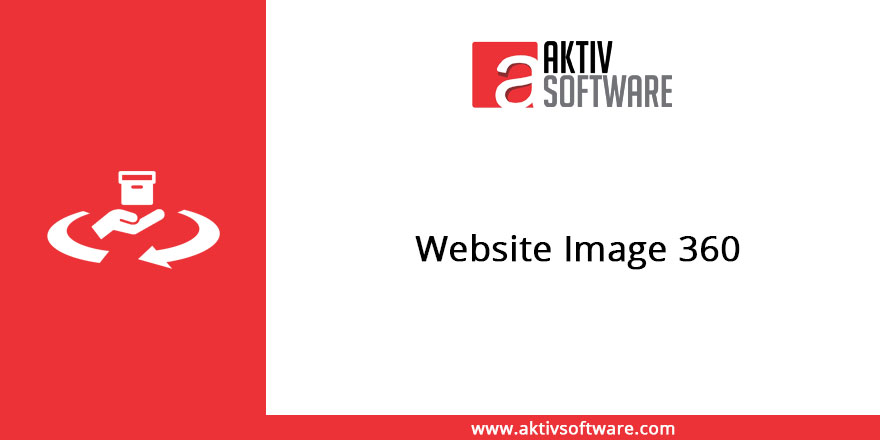
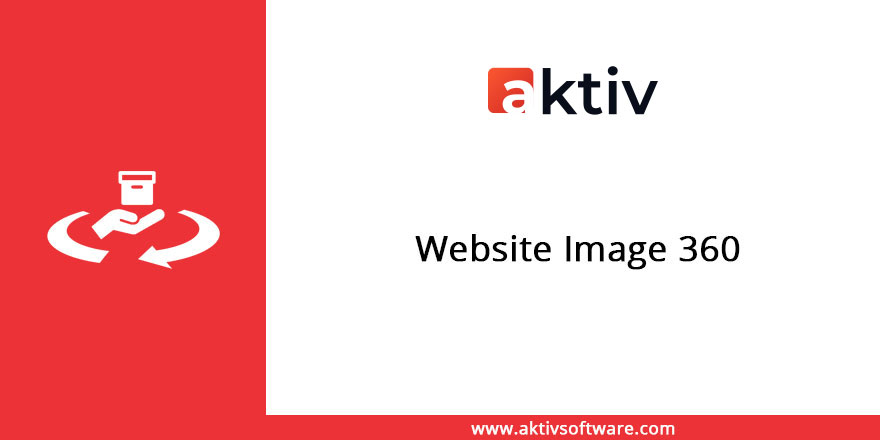
[ADD] change image in 10.0

Changed region(s): [[0.5216, 0.0886, 0.767, 0.2659]]

diff --git a/website_image_360/static/description/index.html b/website_image_360/static/description/index.html
@@ -80,7 +80,7 @@
         <div class="oe_span12">
         <h2 class="oe_slogan">
             <a href="http://aktivsoftware.com/" target="new">
-                <img src="http://aktivsoftware.com/wp-content/uploads/2018/01/logo-1.png"/>
+                <img src="aktiv-logo.png"/>
             </a>
             <br/>
             <a href="mailto:sales@aktivsoftware.com" style="color: #000000 !important;">
